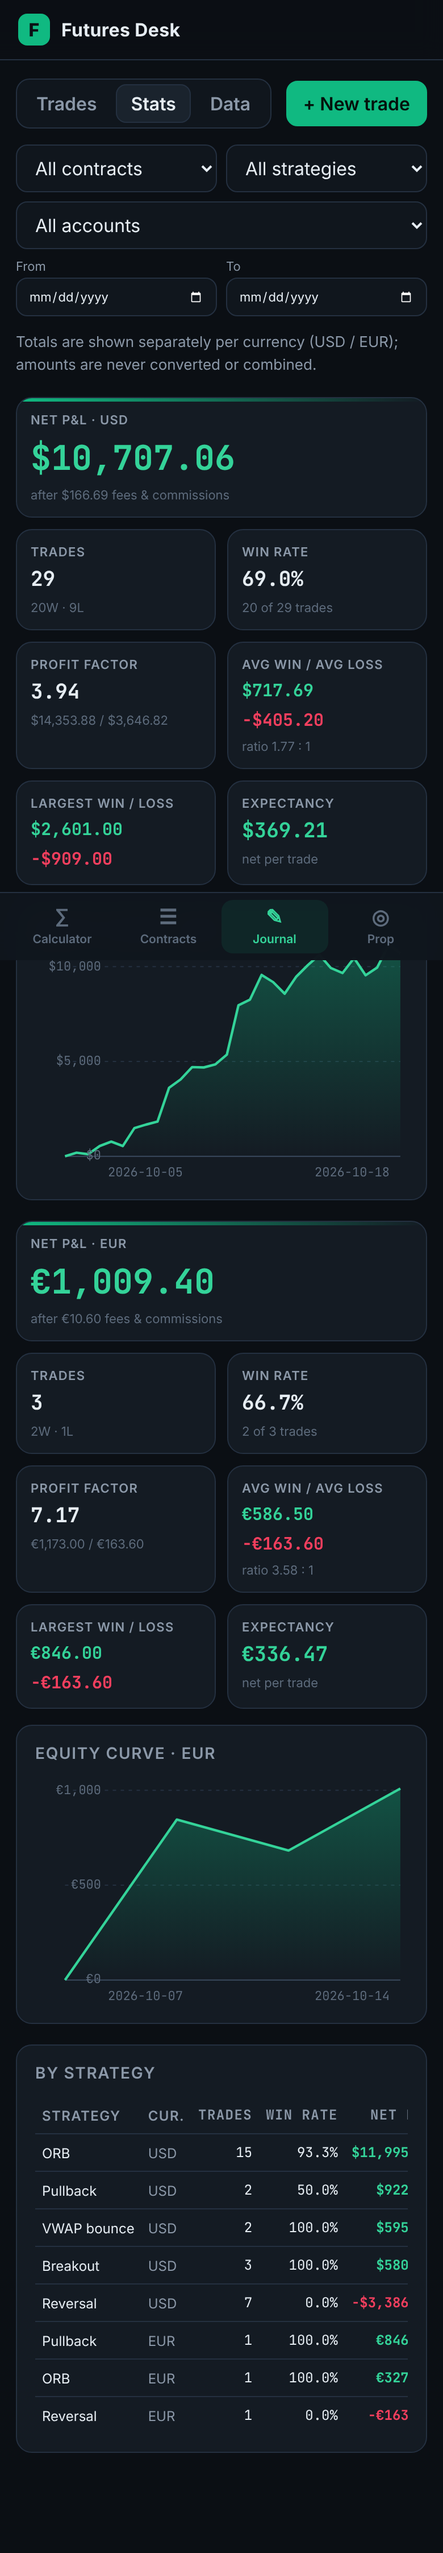
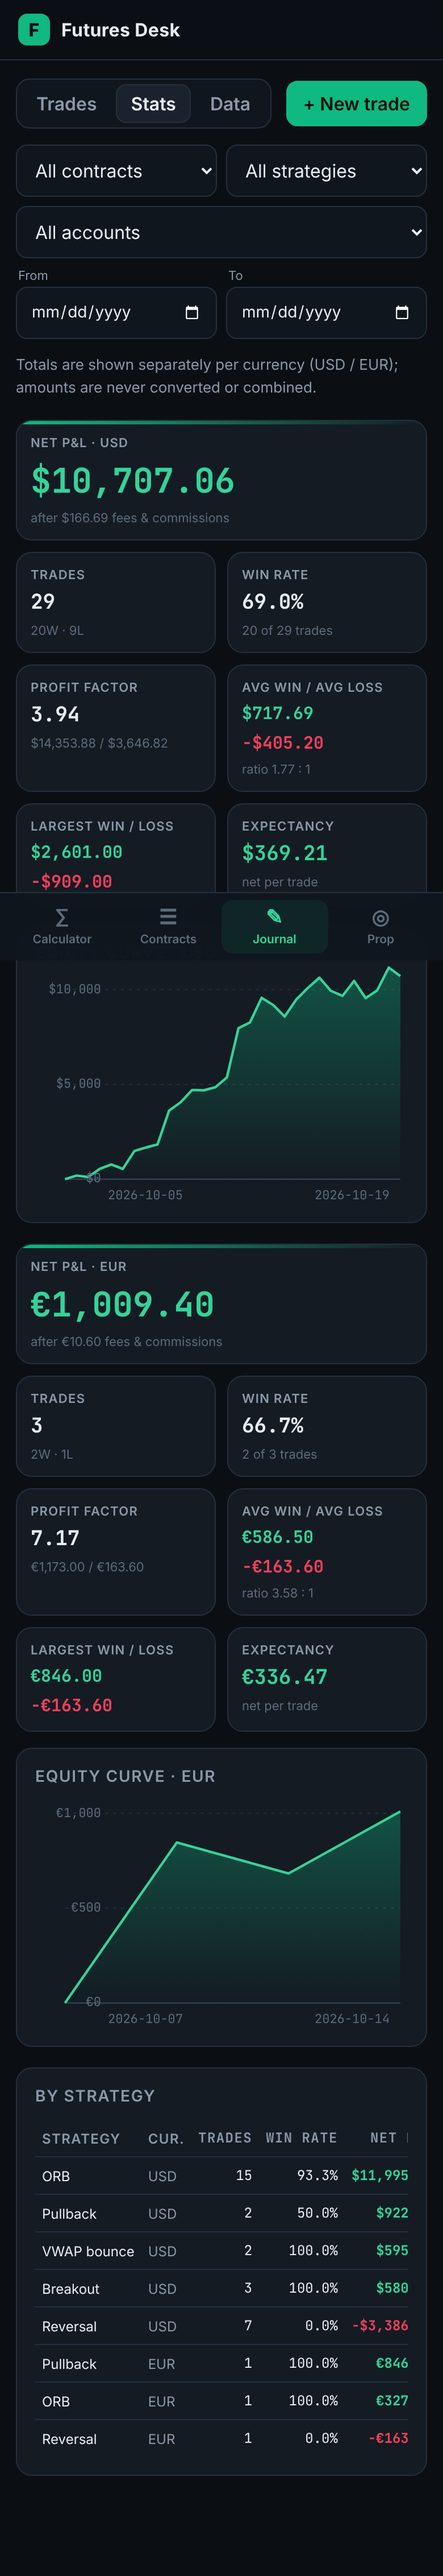
Fix iOS date/time inputs overflowing in filters and forms; add WebKit layout check

diff --git a/src/index.css b/src/index.css
@@ -173,7 +173,7 @@ input.bad { border-color: var(--neg); }
   .lib-head { flex-direction: column; }
   .chips { flex-wrap: nowrap; overflow-x: auto; margin: 12px -14px 14px; padding: 0 14px 4px; scrollbar-width: none; }
   .chip { flex: none; }
-  .form-grid { grid-template-columns: 1fr 1fr; }
+  .form-grid { grid-template-columns: minmax(0, 1fr) minmax(0, 1fr); }
   .form-grid label.wide { grid-column: span 2; }
 }
 
@@ -201,8 +201,25 @@ main { padding-left: max(20px, env(safe-area-inset-left)); padding-right: max(20
 .banner.warn { background: rgba(245,158,11,.1); border: 1px solid rgba(245,158,11,.4); color: #fde68a; }
 textarea { width: 100%; background: var(--bg2); border: 1px solid var(--line); border-radius: 10px; padding: 12px 14px; outline: none; resize: vertical; font: inherit; color: var(--text); }
 textarea:focus { border-color: var(--accent); }
-input[type=date], input[type=datetime-local], input[type=file] { width: 100%; background: var(--bg2); border: 1px solid var(--line); border-radius: 10px; padding: 10px 12px; color: var(--text); color-scheme: dark; outline: none; }
-input[type=date]:focus, input[type=datetime-local]:focus { border-color: var(--accent); }
+input[type=file] { width: 100%; background: var(--bg2); border: 1px solid var(--line); border-radius: 10px; padding: 10px 12px; color: var(--text); color-scheme: dark; outline: none; }
+/* Date/time inputs: iOS Safari gives these an intrinsic min width and ignores width in grid/flex
+   unless appearance is reset and min-width is 0. Height is fixed so an empty iOS field
+   (no placeholder) doesn't collapse; --ctl-h matches the selects in the same context. */
+input[type=date], input[type=datetime-local], input[type=time] {
+  display: block; width: 100%; min-width: 0; max-width: 100%; box-sizing: border-box;
+  -webkit-appearance: none; appearance: none;
+  height: var(--ctl-h, 46px); min-height: var(--ctl-h, 46px); line-height: calc(var(--ctl-h, 46px) - 2px);
+  margin: 0; text-align: left;
+  background: var(--bg2); border: 1px solid var(--line); border-radius: 10px;
+  padding: 0 14px; color: var(--text); color-scheme: dark; outline: none; transition: border-color .15s;
+}
+input[type=date]::-webkit-date-and-time-value, input[type=datetime-local]::-webkit-date-and-time-value, input[type=time]::-webkit-date-and-time-value { text-align: left; margin: 0; line-height: calc(var(--ctl-h, 46px) - 2px); }
+input[type=date]::-webkit-datetime-edit, input[type=datetime-local]::-webkit-datetime-edit, input[type=time]::-webkit-datetime-edit { padding: 0; }
+input[type=date]:focus, input[type=datetime-local]:focus, input[type=time]:focus { border-color: var(--accent); }
+/* Same box height for the selects next to them */
+.tf-grid select, .tf-grid input:not([type=checkbox]):not([type=file]), .form-grid select { height: var(--ctl-h, 46px); }
+.tf-grid select, .form-grid select { padding-top: 0; padding-bottom: 0; line-height: normal; }
+.tf-grid label, .filters .date-f { min-width: 0; }
 .with-btn { display: flex; gap: 8px; align-items: stretch; }
 .with-btn > :first-child { flex: 1; min-width: 0; }
 
@@ -220,7 +237,7 @@ input[type=date]:focus, input[type=datetime-local]:focus { border-color: var(--a
 .foot-pnl b.pos { color: var(--accent2); } .foot-pnl b.neg { color: var(--neg); }
 
 /* ═════════════ Trade form ═════════════ */
-.tf-grid { display: grid; grid-template-columns: 1fr 1fr; gap: 14px; }
+.tf-grid { display: grid; grid-template-columns: minmax(0, 1fr) minmax(0, 1fr); gap: 14px; }
 .tf-grid label, .tf-grid .lbl { display: flex; flex-direction: column; gap: 6px; font-size: 12px; color: var(--muted); font-weight: 600; text-transform: uppercase; letter-spacing: .06em; }
 .tf-grid small { text-transform: none; letter-spacing: 0; font-weight: 400; color: var(--dim); }
 .tf-grid input, .tf-grid select, .tf-grid textarea { text-transform: none; letter-spacing: 0; font-weight: 400; font-size: 15px; color: var(--text); }
@@ -250,10 +267,12 @@ input[type=date]:focus, input[type=datetime-local]:focus { border-color: var(--a
 .subtabs { display: inline-flex; gap: 4px; background: var(--bg2); padding: 4px; border-radius: 12px; border: 1px solid var(--line); }
 .subtabs button { border: 0; background: none; padding: 8px 18px; border-radius: 9px; color: var(--muted); font-weight: 600; }
 .subtabs button.on { background: var(--panel2); color: var(--text); box-shadow: inset 0 0 0 1px var(--line); }
-.filters { display: flex; flex-wrap: wrap; gap: 10px; align-items: center; margin-bottom: 14px; }
+.filters { --ctl-h: 46px; display: flex; flex-wrap: wrap; gap: 10px; align-items: center; margin-bottom: 14px; }
+.filters select { height: var(--ctl-h); padding-top: 0; padding-bottom: 0; line-height: normal; }
+.filters .date-f input { font-size: 14px; }
 .filters select { width: auto; min-width: 150px; padding: 9px 12px; }
 .filters .date-f { display: flex; align-items: center; gap: 6px; font-size: 12px; color: var(--muted); }
-.filters .date-f input { width: 150px; padding: 8px 10px; }
+.filters .date-f input { width: 150px; padding: 0 12px; }
 .summary-strip { display: flex; flex-wrap: wrap; gap: 10px; align-items: center; margin-bottom: 12px; font-size: 13px; }
 .pill { border: 1px solid var(--line); background: var(--bg2); padding: 5px 10px; border-radius: 999px; color: var(--muted); }
 .pill b { font-family: var(--mono); margin-left: 4px; }
@@ -342,10 +361,11 @@ td .sym, .tcard .sym { font-family: var(--mono); font-weight: 700; color: var(--
   .banner { width: calc(100% - 28px); }
   .j-head .btn.primary { padding: 9px 14px; }
   .subtabs button { padding: 7px 13px; }
-  .filters { display: grid; grid-template-columns: 1fr 1fr; gap: 8px; }
+  .filters { display: grid; grid-template-columns: minmax(0, 1fr) minmax(0, 1fr); gap: 8px; }
   .filters select { min-width: 0; width: 100%; }
   .filters .date-f { flex-direction: column; align-items: stretch; gap: 3px; font-size: 11px; }
   .filters .date-f input { width: 100%; }
+  .filters .date-f > span { padding-left: 2px; }
   .filters .btn { grid-column: span 2; }
   .table-wrap:not(.plain) { display: none; }
   .trade-cards { display: flex; flex-direction: column; gap: 10px; }
@@ -364,7 +384,7 @@ td .sym, .tcard .sym { font-family: var(--mono); font-weight: 700; color: var(--
   table.strat th, table.strat td { padding: 8px 6px; font-size: 12px; }
 }
 @media (max-width: 420px) {
-  .tf-grid { grid-template-columns: 1fr 1fr; }
+  .tf-grid { grid-template-columns: minmax(0, 1fr) minmax(0, 1fr); }
   .tf-grid label:has(input[type=datetime-local]) { grid-column: span 2; }
   .tf-grid .lbl:has(.seg.side) { grid-column: span 2; }
 }
@@ -437,7 +457,7 @@ td .sym, .tcard .sym { font-family: var(--mono); font-weight: 700; color: var(--
 .src-note.partial { color: #fde68a; }
 .warn-inline { color: var(--warn); }
 .form-sub { margin: 18px 0 10px; font-size: 13px; text-transform: uppercase; letter-spacing: .08em; color: var(--muted); display: flex; gap: 8px; align-items: center; }
-.pair-in { display: grid; grid-template-columns: 1fr 1fr; gap: 8px; }
+.pair-in { display: grid; grid-template-columns: minmax(0, 1fr) minmax(0, 1fr); gap: 8px; }
 .acct-form .seg { margin-top: 0; }
 .acct-form .seg button:disabled { opacity: .35; cursor: not-allowed; }
 .acct-form input:disabled { opacity: .5; }

diff --git a/README.md b/README.md
@@ -25,6 +25,7 @@ Separately: `npm run build:pwa`, `npm run build:single`.
 - `npm test`: vitest unit tests (calc engine, spec sanity, P&L, stats, CSV round trip, JSON backup)
 - `npm run test:e2e`: Playwright smoke test (adds 3 trades, reloads, prop account create/bulk-assign/dashboard/calculator warning/backup, checks stats/filters/duplicate/delete, CSV + JSON round trips, screenshot attach, storage warning, SW offline, single-file build)
 - `npm run smoke`: both browser smoke tests
+- `npm run test:ios`: date/time input layout check in Playwright WebKit (iPhone descriptor) + Chromium mobile at 390×844. It checks the fields line up with the selects and don't overflow, and writes `screens/journal-filters-iphone.png` and `screens/stats-filters-iphone.png`. `STRESS=1` forces an iOS-like wide built-in date width. Needs `npx playwright install webkit` + `sudo npx playwright install-deps webkit`.
 - `npm run screens`: regenerate screenshots into `screens/` (loads SAMPLE data, then clears it)
 - Icons: `python3 scripts/make-icons.py` (Pillow)
 
